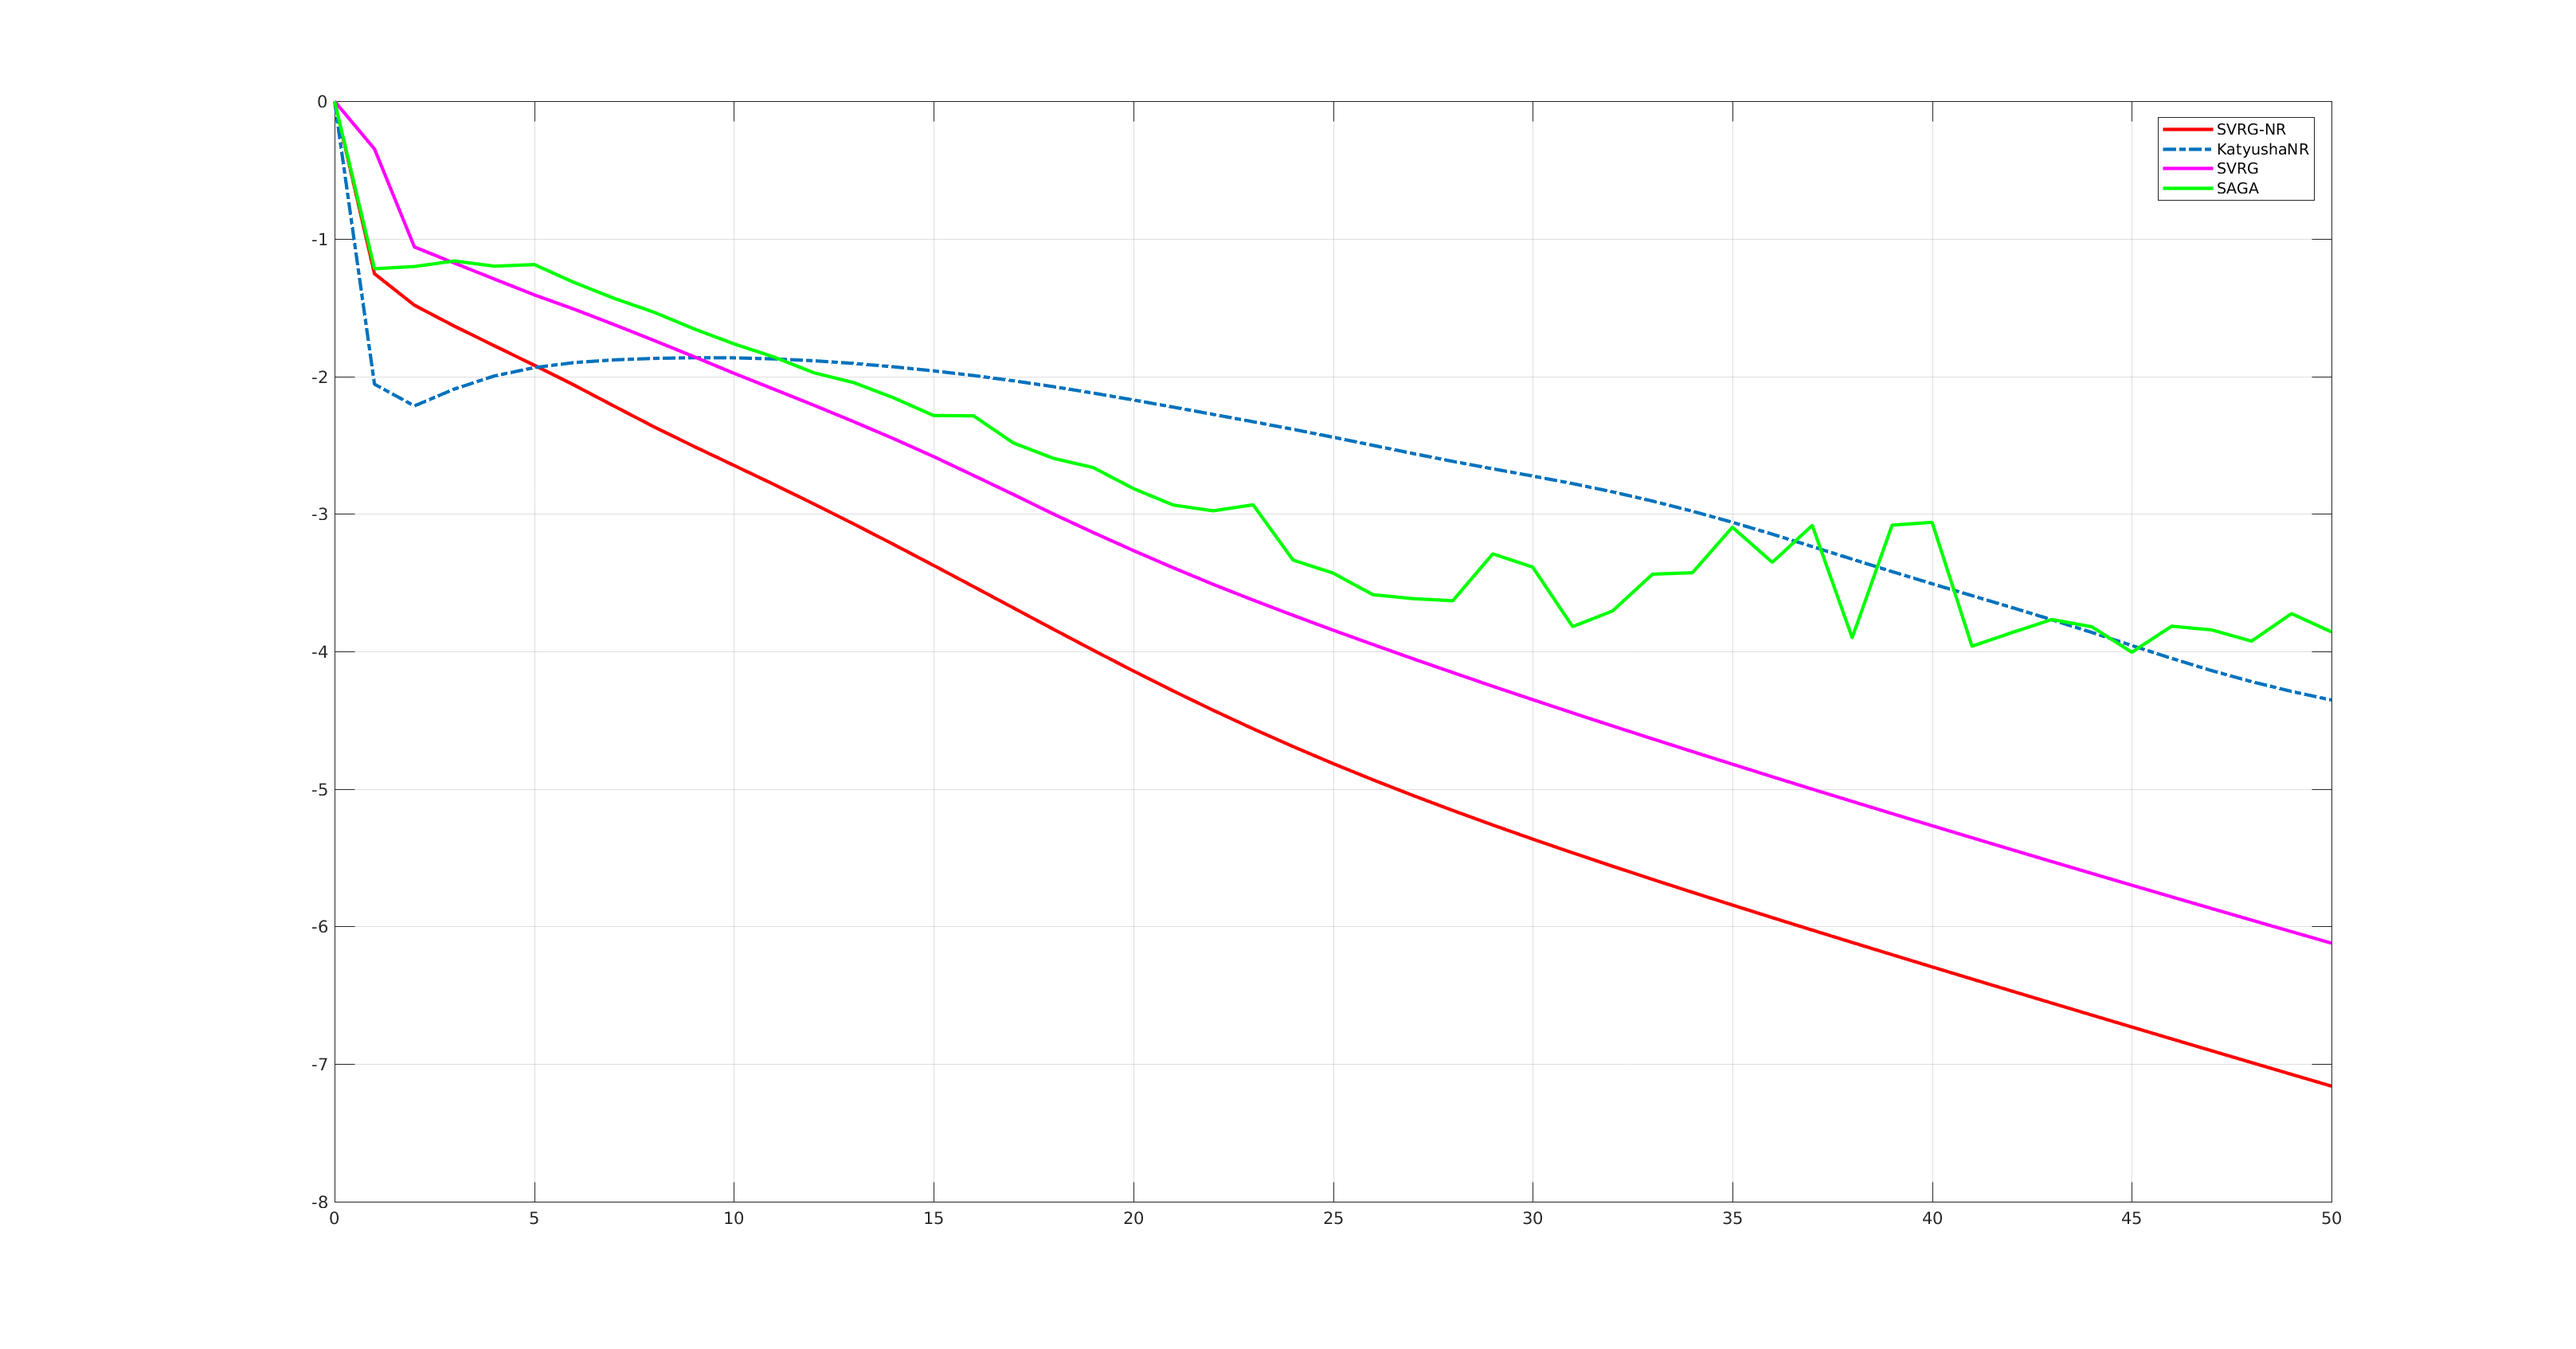
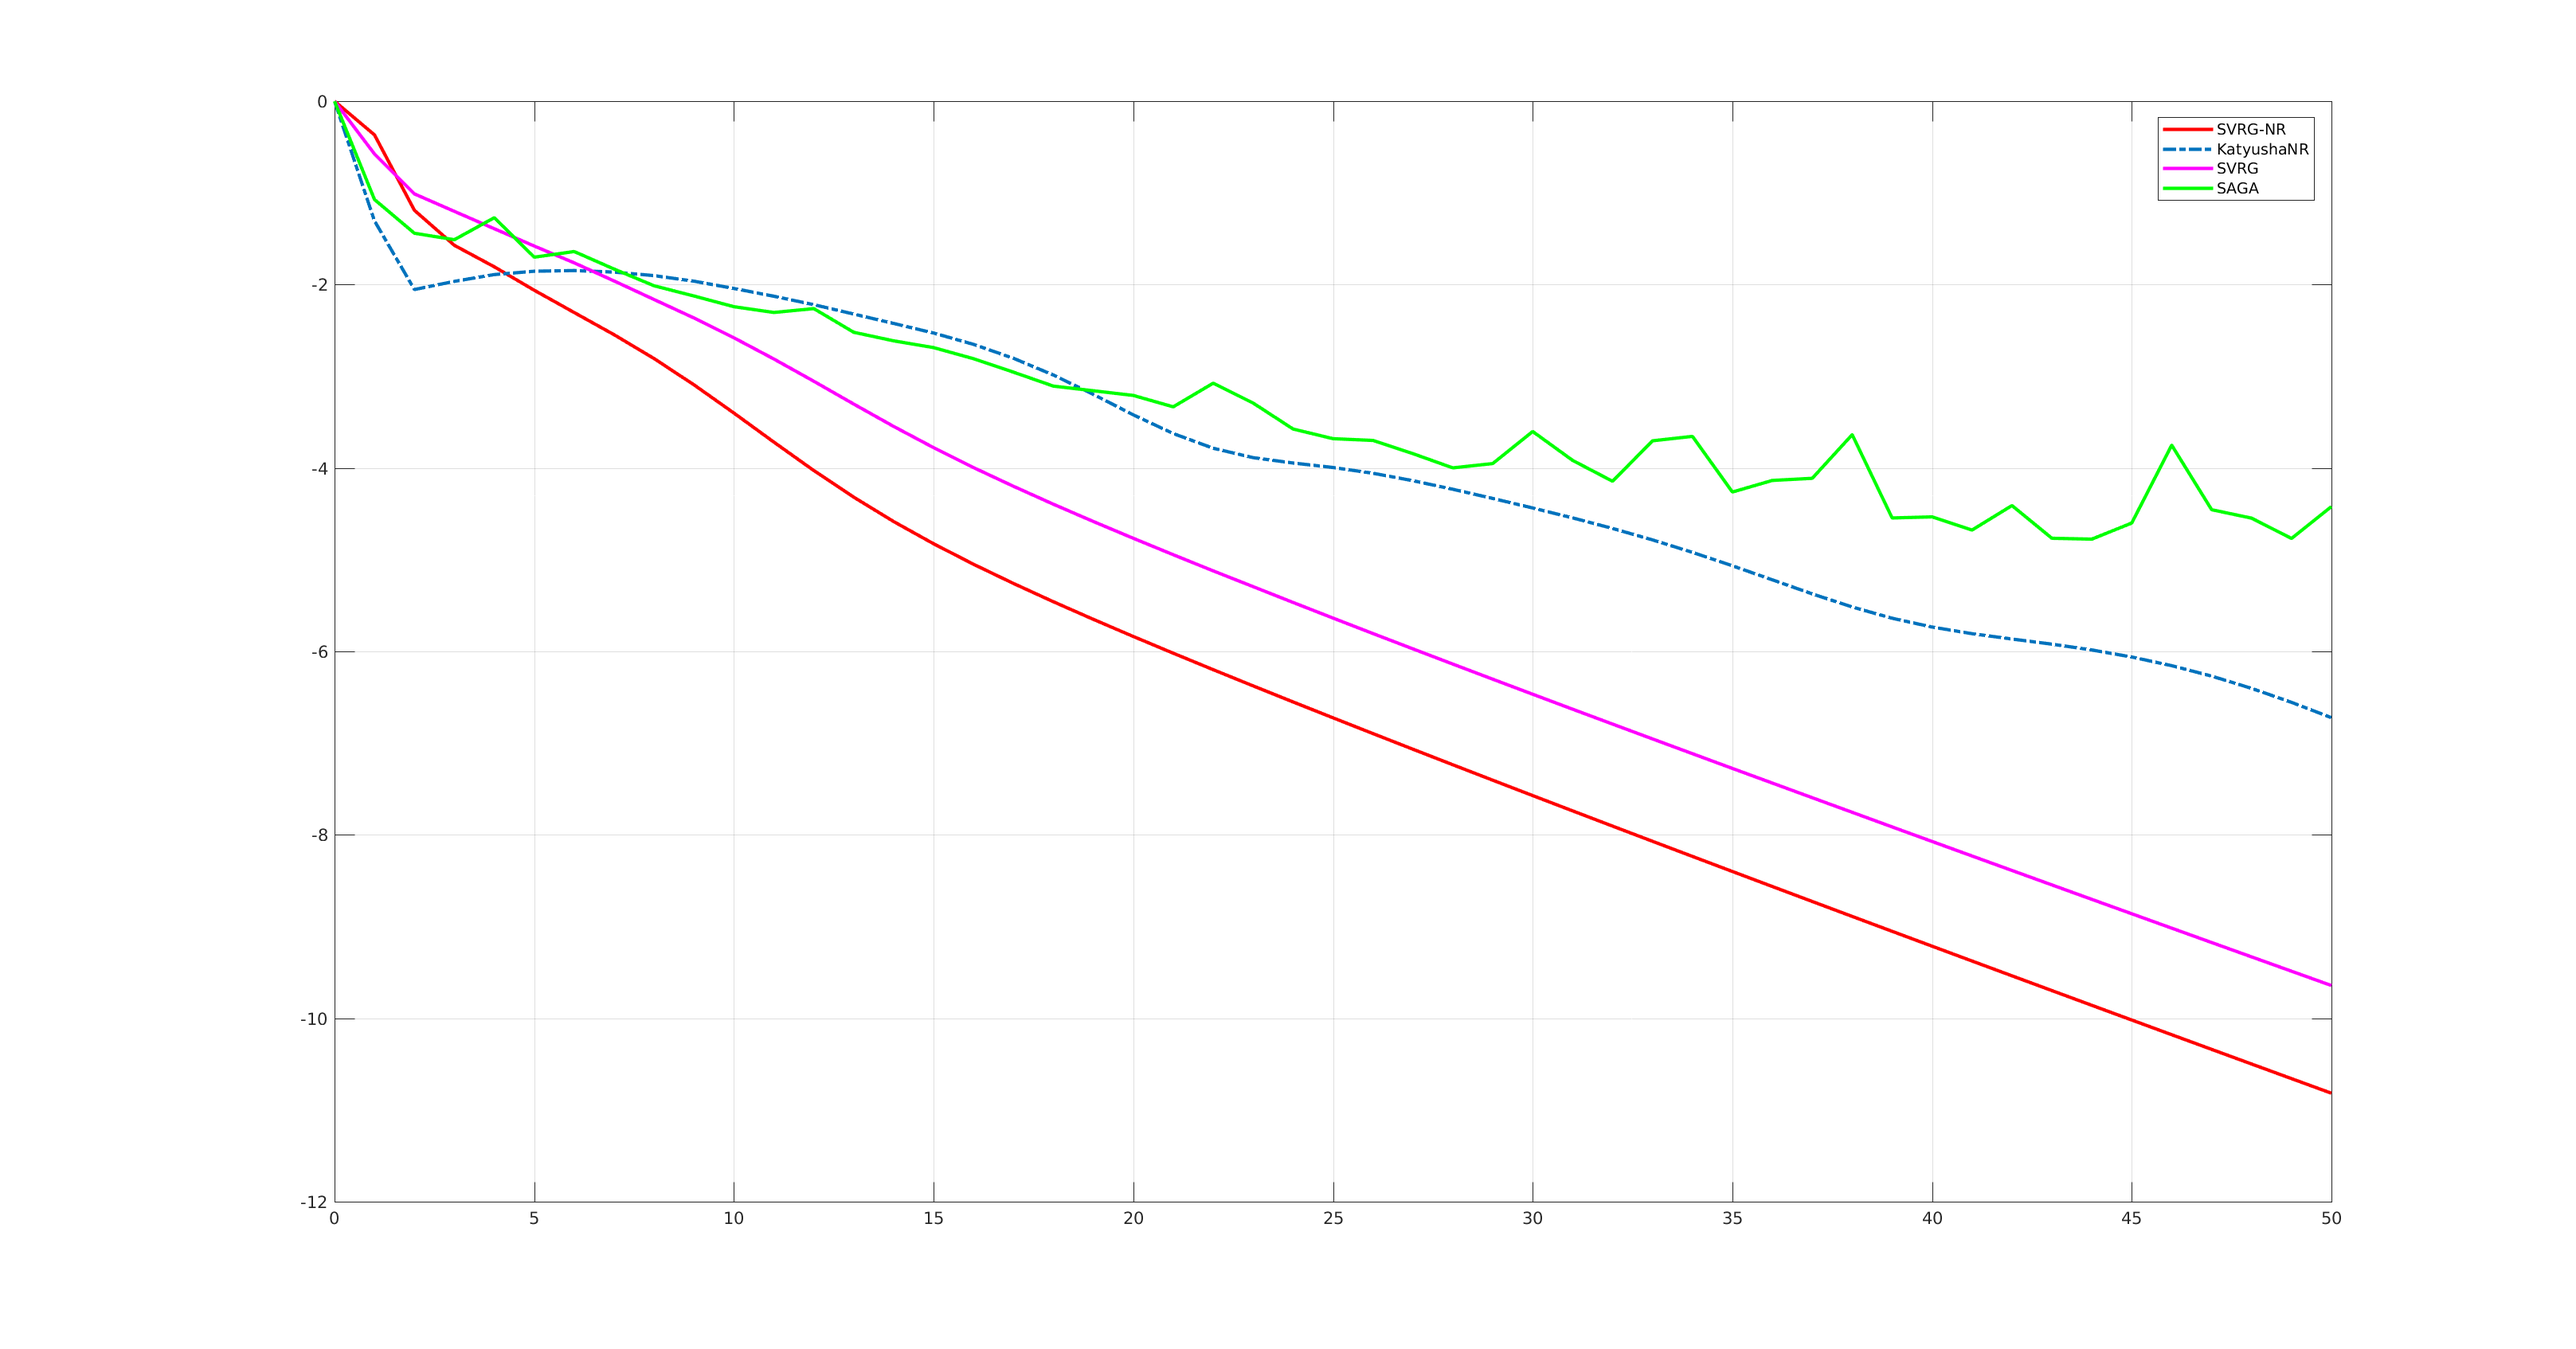
not done

diff --git a/SVRGNR.m b/SVRGNR.m
@@ -5,7 +5,7 @@ fprintf('Fitting data with SVRG-NR ...\n');
 
 % initialization
 [n ,d] = size(X);
-iterNum = n;
+iterNum = n * 2;
 subOptimality = zeros(passes, 1);
 validPoints = 0;
 
@@ -23,7 +23,8 @@ for s = 1:passes % for each epoch
     ntilde = objFunc.Gradient(wtilde, X, y);
 
     for i = 1:iterNum
-        wDelta = objFunc.Gradient(w, X(i, :), y(i)) - objFunc.Gradient(wtilde, X(i, :), y(i)) + objFunc.lambda * w + ntilde;
+        idx = mod(i-1, n) + 1;
+        wDelta = objFunc.Gradient(w, X(idx, :), y(idx)) - objFunc.Gradient(wtilde, X(idx, :), y(idx)) + objFunc.lambda * w + ntilde;
         w = w - eta * wDelta;
     end
     wtilde = w;

diff --git a/KatyushaNR.m b/KatyushaNR.m
@@ -5,7 +5,7 @@ fprintf('Fitting data with KatyushaNR...\n');
 
 % initialization
 [n ,d] = size(X);
-iterNum = n;
+iterNum = n * 2;
 subOptimality = zeros(passes, 1);
 validPoints = 0;
 

diff --git a/SVRG.m b/SVRG.m
@@ -5,7 +5,7 @@ fprintf('Fitting data with SVRG ...\n');
 
 % initialization
 [n ,d] = size(X);
-iterNum = n;
+iterNum = n*2;
 subOptimality = zeros(passes, 1);
 validPoints = 0;
 

diff --git a/main.m b/main.m
@@ -1,6 +1,6 @@
 % dataset : toy, covtype, rcv1, avazu, MNIST.
 dataset = 'MNIST';
-passes = 50;
+passes = 25;
 factor = 5;
 lambda = 1e-4;
 
